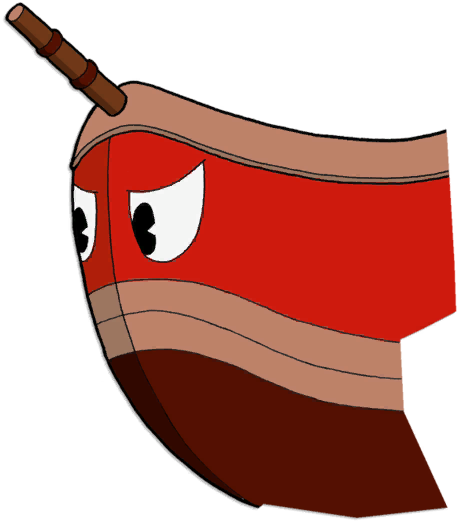
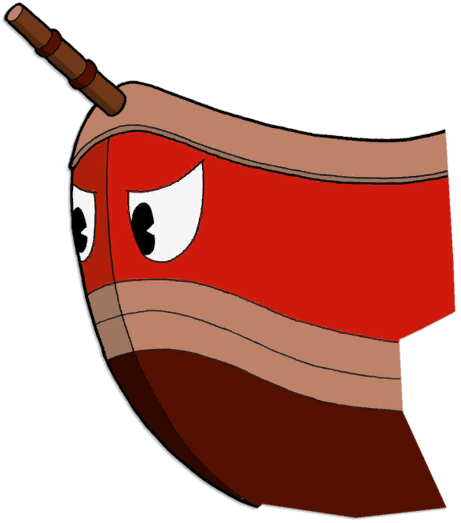
김경윤 : 이미지 리소스 수정

diff --git a/DX_KKY/Contents/CaptainBrineybeardPhase1.cpp b/DX_KKY/Contents/CaptainBrineybeardPhase1.cpp
@@ -72,7 +72,7 @@ void ACaptainBrineybeardPhase1::RendererInit()
 	ShipSailRenderer->SetPivot(EPivot::LEFTBOTTOM);
 	ShipSailRenderer->SetPosition(GRendererPos::ShipSail_RelativePos);
 
-	ShipRenderer->SetPlusColor(GColorValue::BrightColor);
+	//ShipRenderer->SetPlusColor(GColorValue::BrightColor);
 	ShipRailRenderer->SetPlusColor(GColorValue::BrightColor);
 	ShipMastRenderer->SetPlusColor(GColorValue::BrightColor);
 	ShipSailRenderer->SetPlusColor(GColorValue::BrightColor);
